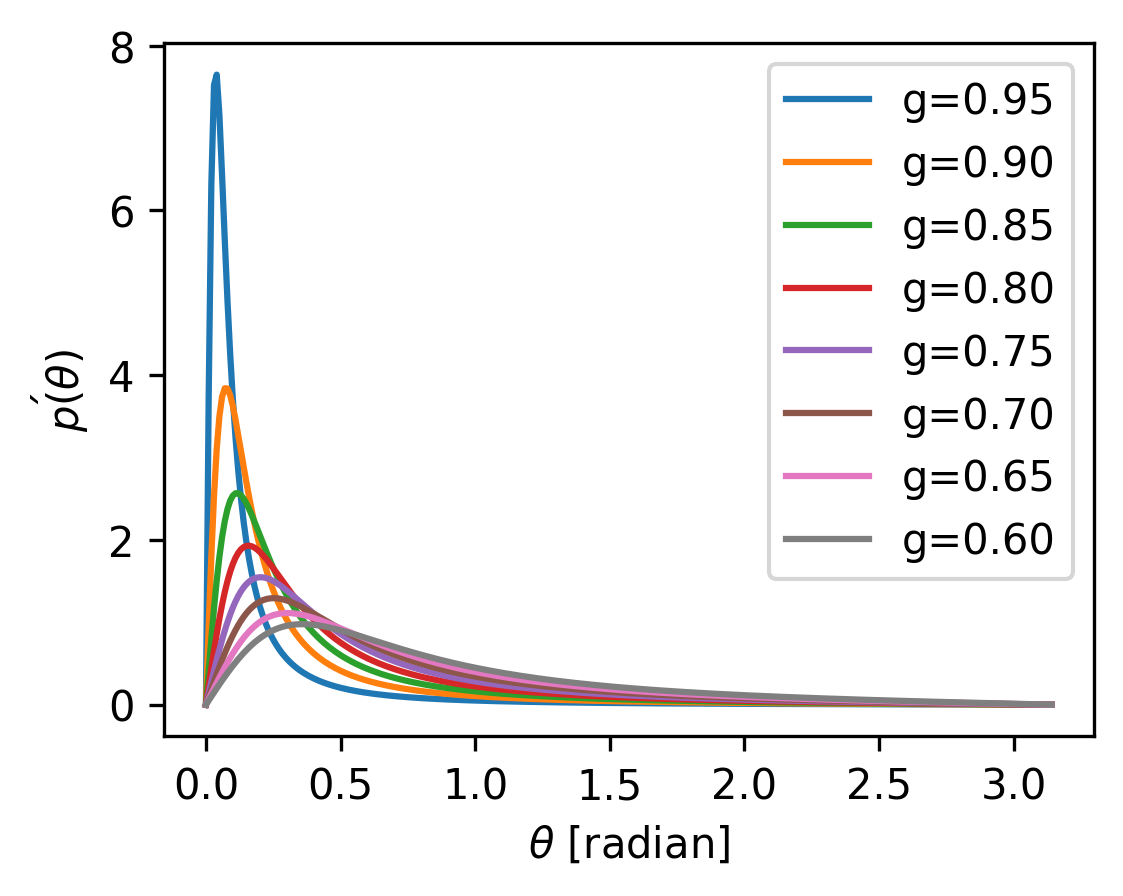
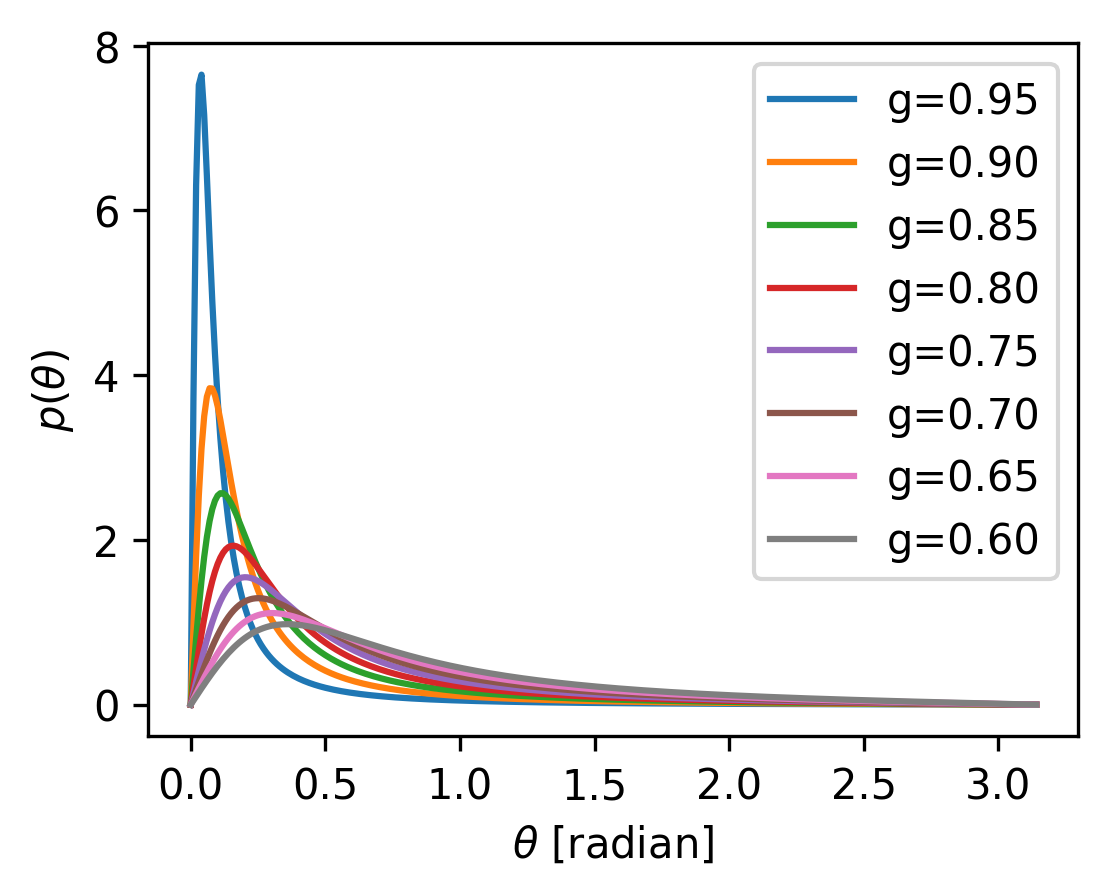
change y label

diff --git a/explorePhaseFunctions.py b/explorePhaseFunctions.py
@@ -39,7 +39,7 @@ if __name__=='__main__':
     for i in range(0,8):
         sns.lineplot(ax=ax, x=theta, y=pHG[i,:], label=f'g={g[i]:>0.2f}')
     plt.xlabel(''r'$\theta$ [radian]')
-    plt.ylabel(''r'$p\'(\theta)$')
+    plt.ylabel(''r'$p(\theta)$')
     plt.legend()
     figFile = os.path.join('testing_results', f'Figure_HG.png')
     plt.savefig(figFile, bbox_inches='tight')
